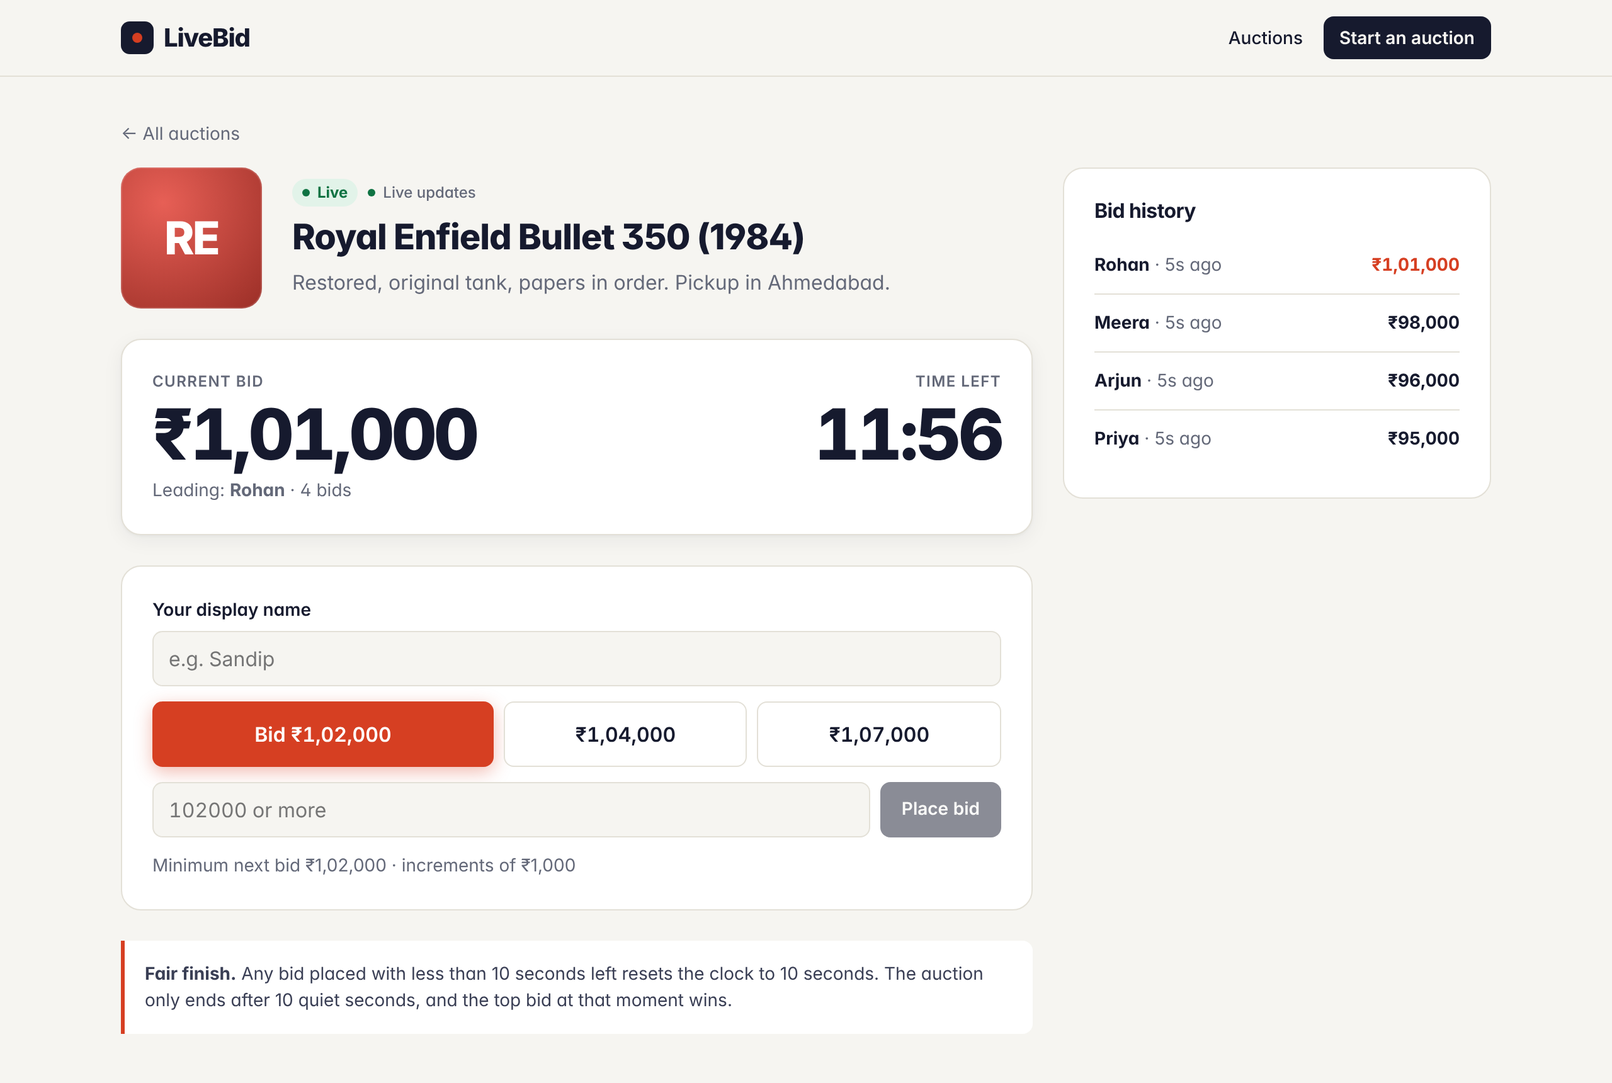
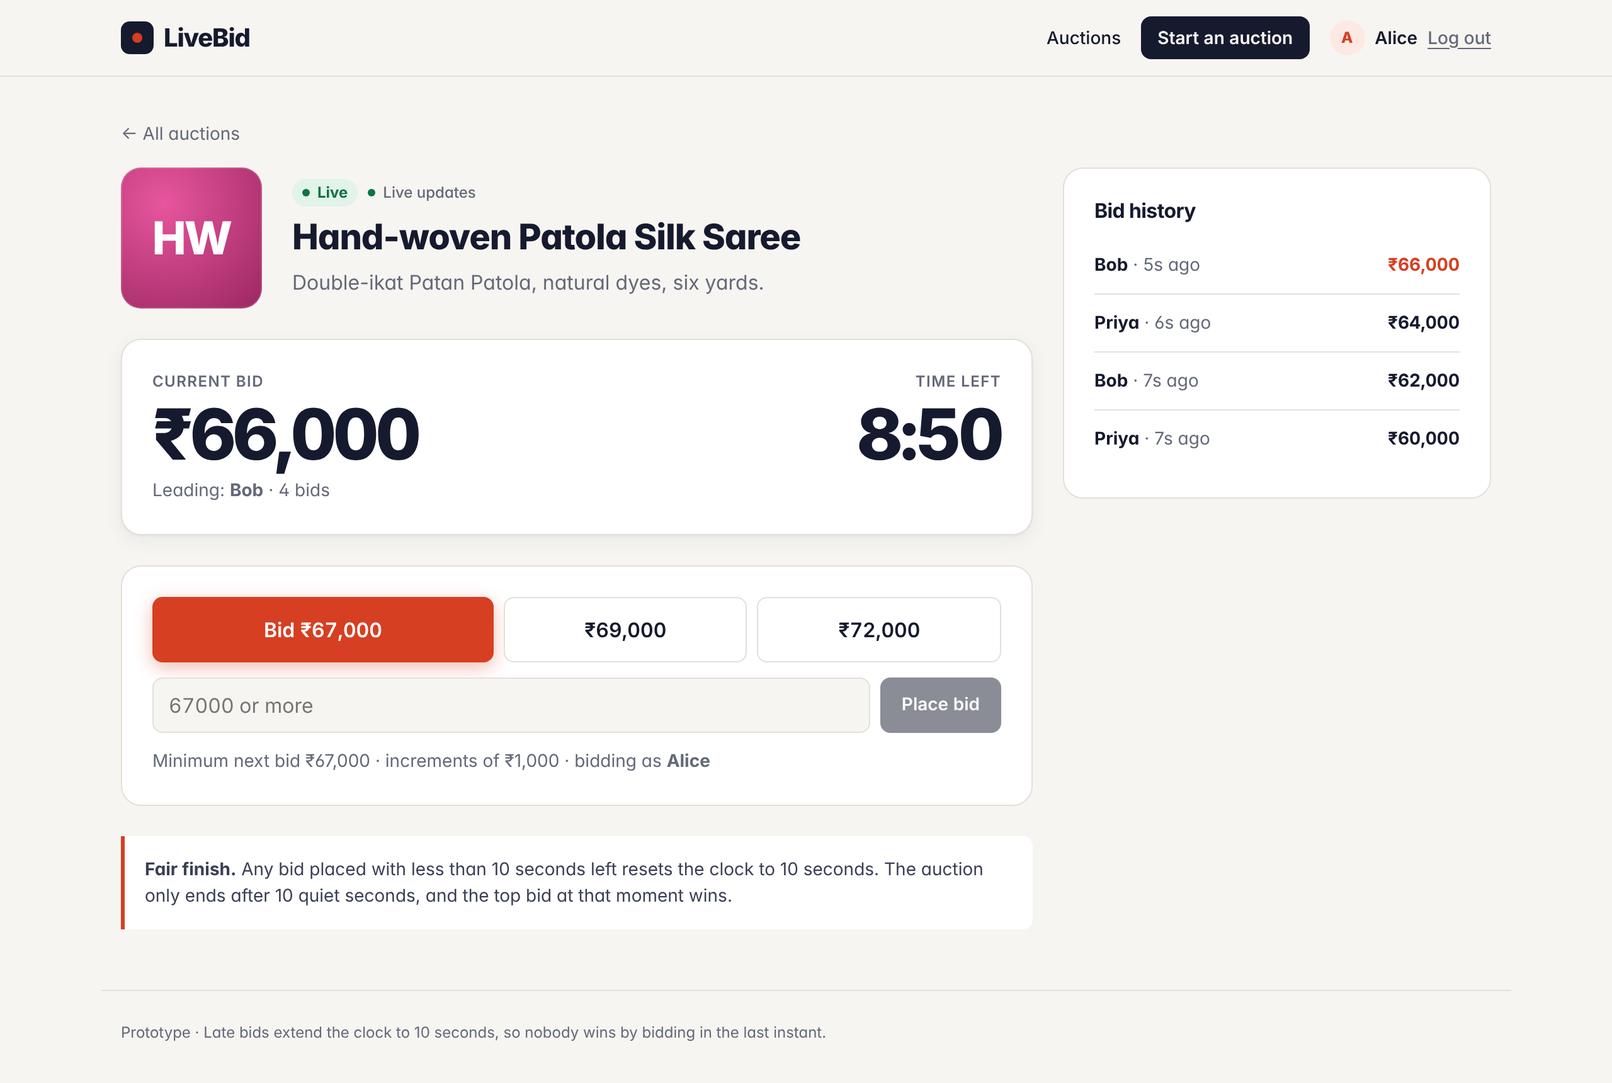
docs: v0.2 — Redis pub/sub and auth in architecture, decisions, tasks
ADRs D12 (demo auth) and D13 (Redis TCP + pub/sub); updated
diagrams, API table, folder layout, definition of done, roadmap,
README and screenshots.

Claude-Session: https://claude.ai/code/session_015RdGG7K9jKELf48CPAi1DH

diff --git a/docs/ARCHITECTURE.md b/docs/ARCHITECTURE.md
@@ -6,7 +6,8 @@
 |---|---|---|
 | Framework | **Next.js 15** (App Router) + **React 19** + **TypeScript** (strict) | One codebase for UI and API; first‑class on Vercel |
 | Live updates | **Server‑Sent Events** (`EventSource`) | One‑way server→browser push over plain HTTP; auto‑reconnect built in; works on serverless |
-| State (production) | **Upstash Redis** (REST) | Serverless‑friendly, atomic Lua scripts, a single authoritative clock (`TIME`) |
+| State (production) | **Redis** (Redis Cloud via Vercel Marketplace) with **ioredis** | Atomic Lua scripts, a single authoritative clock (`TIME`), pub/sub to push bids across instances |
+| Auth | Username/password, **scrypt** hashes, **HMAC‑signed httpOnly cookie** | Stateless sessions; no extra service ([D12](DECISIONS.md)) |
 | State (local) | In‑memory store | Zero setup: `npm run dev` just works |
 | Styling | Plain CSS with design tokens | No build plugins; every value documented in [CONTEXT.md](CONTEXT.md) |
 | Tests | **Vitest** | Fast, TypeScript‑native |
@@ -27,17 +28,17 @@ flowchart LR
     ENG["engine.ts<br/>pure rules"]
     SSE["GET /stream<br/>SSE"]
   end
-  R[("Upstash Redis<br/>auction + version<br/>last 50 bids · seen bid ids<br/>TIME = the one clock")]
+  R[("Redis<br/>auction + version · last 50 bids<br/>seen bid ids · users<br/>TIME = the one clock")]
 
-  UI -- "① place bid" --> API
+  UI -- "① place bid (session cookie)" --> API
   API -- "② decide" --> ENG
-  API -- "③ atomic compare-and-set" --> R
-  SSE -- "④ version changed?" --> R
+  API -- "③ atomic compare-and-set + PUBLISH" --> R
+  R -- "④ pub/sub: new version" --> SSE
   SSE -- "⑤ push snapshot" --> ES
   ES --> UI
 ```
 
-Without Redis credentials the same code uses the in‑memory store and pushes updates instantly through an in‑process event emitter.
+Without `REDIS_URL` the same code uses the in‑memory store and pushes updates through an in‑process event emitter.
 
 ## Placing a bid
 
@@ -49,7 +50,11 @@ sequenceDiagram
   participant E as engine.decideBid
   participant R as Redis
 
-  U->>F: POST /api/auctions/:id/bids {bidId, amount}
+  U->>F: POST /api/auctions/:id/bids {bidId, amount} + session cookie
+  F->>F: verify cookie signature → bidder = session user
+  alt no valid session
+    F-->>U: 401 Log in to bid
+  end
   loop until committed or rejected (max 12)
     F->>R: GET auction, TIME
     F->>E: decideBid(auction, bid, now)
@@ -59,7 +64,7 @@ sequenceDiagram
     else accepted
       E-->>F: next auction state (version+1, maybe endsAt = now+10s)
       F->>R: EVAL commit(expectedVersion, next, bid)
-      Note over R: atomic: version unchanged?<br/>TIME < endsAt?<br/>bidId unseen?
+      Note over R: atomic: version unchanged?<br/>TIME < endsAt?<br/>bidId unseen?<br/>then PUBLISH new version
       alt OK
         R-->>F: OK
         F-->>U: 200 {auction, bid}
@@ -110,7 +115,9 @@ The countdown runs on **server time** (`Date.now() + offset`), so every device s
 ├── app/                         Next.js App Router
 │   ├── page.tsx                 Lobby (open / ended auctions)
 │   ├── auctions/[id]/page.tsx   Auction room (server-rendered first snapshot)
-│   ├── new/page.tsx             Create an auction
+│   ├── new/page.tsx             Create an auction (login required)
+│   ├── login/page.tsx           Log in · sign up · demo accounts
+│   ├── api/auth/                login · signup · logout
 │   ├── api/auctions/
 │   │   ├── route.ts             GET list · POST create
 │   │   └── [id]/
@@ -119,30 +126,36 @@ The countdown runs on **server time** (`Date.now() + offset`), so every device s
 │   │       └── stream/route.ts  GET live stream (SSE)
 │   ├── layout.tsx · globals.css Shell + design tokens
 │   └── not-found.tsx
-├── components/                  Lobby, AuctionRoom (bid panel, result), Tile, StatusPill
+├── components/                  Lobby, AuctionRoom, LoginForm, UserMenu, NewAuctionForm, Tile, StatusPill
 ├── lib/
 │   ├── engine.ts                ★ The rules. Pure functions, no I/O, fully tested
+│   ├── auth.ts                  Password hashing, signed sessions, accounts
 │   ├── types.ts                 Auction, Bid, results
 │   ├── store/
 │   │   ├── types.ts             AuctionStore interface
 │   │   ├── memory.ts            Local / fallback store
-│   │   ├── redis.ts             Production store (Lua compare-and-set)
+│   │   ├── redis.ts             Production store (Lua compare-and-set + pub/sub)
 │   │   └── index.ts             Picks Redis if configured
 │   ├── demo.ts                  Keeps demo inventory topped up
-│   ├── client.ts                Browser: identity, server clock
+│   ├── client.ts                Browser: server clock
 │   └── format.ts                ₹ and countdown formatting
-├── tests/                       Vitest: engine rules, concurrency, idempotency
+├── tests/                       Vitest: rules, concurrency, idempotency, Redis store, auth
 └── docs/                        Aim · Tasks · Context · Architecture · Decisions
 ```
 
 ## API
 
+🔒 = requires the session cookie.
+
 | Method | Path | Body | Returns |
 |---|---|---|---|
+| `POST` | `/api/auth/signup` | `{ username, password, displayName? }` | `201 { user }` + cookie |
+| `POST` | `/api/auth/login` | `{ username, password }` | `{ user }` + cookie · `401` |
+| `POST` | `/api/auth/logout` | — | clears cookie |
 | `GET` | `/api/auctions` | — | `{ auctions, serverNow, store }` |
-| `POST` | `/api/auctions` | `{ title, description?, startingPrice, minIncrement, durationMinutes }` | `201 { auction }` |
+| `POST` 🔒 | `/api/auctions` | `{ title, description?, startingPrice, minIncrement, durationMinutes }` | `201 { auction }` · `401` |
 | `GET` | `/api/auctions/:id` | — | `{ auction, bids, serverNow }` |
-| `POST` | `/api/auctions/:id/bids` | `{ bidId, bidderId, bidderName, amount }` | `200 { ok, auction, bid }` · `409 { reason, minNextBid }` |
+| `POST` 🔒 | `/api/auctions/:id/bids` | `{ bidId, amount }` | `200 { ok, auction, bid }` · `409 { reason, minNextBid }` · `401` |
 | `GET` | `/api/auctions/:id/stream` | — | `text/event-stream`: `snapshot`, `ping` |
 
 ## Scaling path
@@ -169,7 +182,7 @@ flowchart LR
   G1 & G2 & Gn -- "coalesced snapshot<br/>≤ 10 / s" --> Watchers
 ```
 
-1. **Push instead of poll.** Replace per‑watcher Redis polling with one pub/sub message per accepted bid, fanned out by WebSocket gateways. Cost becomes O(bids), not O(watchers × time).
+1. **Dedicated fan‑out.** Bids are already pushed by pub/sub (one message per accepted bid). Move the watcher connections off serverless functions onto WebSocket gateways that each hold ~50k sockets.
 2. **Coalesce.** During the final‑seconds storm, gateways send at most ~10 snapshots/s per auction; each carries the latest version, so nothing is lost.
 3. **Single writer per auction.** Route all bids for an auction to one owner (consistent hashing). Bids become a local, in‑order operation — no compare‑and‑set retries under contention.
 4. **Durable ledger.** Every accepted bid appended to Postgres for audit and dispute resolution.

diff --git a/README.md b/README.md
@@ -9,8 +9,8 @@
 ![Next.js](https://img.shields.io/badge/Next.js-15-000?logo=nextdotjs)
 ![React](https://img.shields.io/badge/React-19-149eca?logo=react)
 ![TypeScript](https://img.shields.io/badge/TypeScript-strict-3178c6?logo=typescript&logoColor=white)
-![Redis](https://img.shields.io/badge/Upstash-Redis-00e9a3?logo=redis&logoColor=white)
-![Tests](https://img.shields.io/badge/tests-14%20passing-14804a)
+![Redis](https://img.shields.io/badge/Redis-pub%2Fsub-dc382d?logo=redis&logoColor=white)
+![Tests](https://img.shields.io/badge/tests-27%20passing-0f7343)
 ![Deploy](https://img.shields.io/badge/deployed%20on-Vercel-000?logo=vercel)
 
 </div>
@@ -20,7 +20,9 @@
 </p>
 
 <p align="center">
-  <img src="docs/screenshots/lobby.png" alt="Lobby with live prices and countdowns" width="560">
+  <img src="docs/screenshots/lobby.png" alt="Lobby with live prices and countdowns" width="400">
+  &nbsp;
+  <img src="docs/screenshots/login.png" alt="Login with one-tap demo accounts" width="300">
   &nbsp;
   <img src="docs/screenshots/mobile.png" alt="Auction room on a phone" width="200">
 </p>
@@ -35,11 +37,12 @@
 
 | Requirement | Answer | Where |
 |---|---|---|
-| See the price almost immediately | Server‑Sent Events push a new snapshot the moment a bid is accepted | [`stream/route.ts`](app/api/auctions/[id]/stream/route.ts) |
+| See the price almost immediately | A bid commit PUBLISHes to Redis; every server instance pushes the new snapshot to its watchers over Server‑Sent Events (~70 ms across instances) | [`stream/route.ts`](app/api/auctions/[id]/stream/route.ts) |
 | No doubt about who won | Atomic compare‑and‑set on a version number; **one clock** (Redis `TIME`) decides the close; "closed" is derived from time, never a flag | [`engine.ts`](lib/engine.ts) · [`redis.ts`](lib/store/redis.ts) |
 | Late bids extend the auction | Any bid with < 10 s left resets the clock to 10 s | [`decideBid`](lib/engine.ts) |
 | Bids in the final seconds | Idempotent `bidId` so a panicked double‑tap or retry never counts twice | [D7](docs/DECISIONS.md) |
 | Same countdown on every device | Clients run on server time (offset from `serverNow`) | [`client.ts`](lib/client.ts) |
+| Know who bid | Log in to bid; the bidder is taken from a signed session cookie, never from the request | [`auth.ts`](lib/auth.ts) |
 
 ## How a bid flows
 
@@ -51,13 +54,14 @@ sequenceDiagram
   participant R as Redis (one clock)
   participant W as Every watcher
 
-  A->>S: Bid ₹1,300 (bidId=x)
+  A->>S: Bid ₹1,300 (bidId=x) + session cookie
+  S->>S: verify session → bidder = Alice
   S->>R: read auction v7 + TIME
   S->>S: engine.decideBid → ok, v8<br/>(<10 s left → endsAt = now+10 s)
   S->>R: commit if still v7 AND TIME < endsAt
   R-->>S: OK
   S-->>A: You lead at ₹1,300
-  R-->>W: v8 → SSE snapshot (price flashes, "+10s")
+  R-->>W: PUBLISH v8 → SSE snapshot on every instance<br/>(price flashes, "+10s")
 ```
 
 Two bids racing for the same step? Only one commit sees `v7`; the other re‑reads `v8` and is told the new minimum. A bid that reaches Redis even 1 ms after `endsAt` is rejected — so the leader at close is the winner, by construction.
@@ -74,12 +78,14 @@ flowchart LR
   W -- yes --> C["Closed · top bid wins"]
 ```
 
-## Features (v0.1)
+## Features (v0.2)
+
+**Try it:** open the live demo, tap **Log in → Alice**. Open a second browser (or incognito), log in as **Bob**, open the same auction, and bid against yourself.
 
 - **Lobby** — every open auction with live price and a server‑synced countdown; *Open now* / *Ended* tabs.
 - **Auction room** — huge price and clock, one‑tap bid buttons (minimum, +2×, +5× increment) or a custom amount, live bid history, "You've been outbid" alert, extension notice, winner banner.
 - **Start an auction** — title, description, starting price, increment, duration; live the moment it's created.
-- **No sign‑up** — pick a display name and bid (auth comes later, see [Tasks](docs/TASKS.md)).
+- **Accounts** — sign up with a username and password, or one tap on a demo account (Alice, Bob, Priya · `demo1234`). Anyone can watch; logging in is required to bid or start an auction.
 - Mobile‑first, dark mode, reduced‑motion aware.
 
 ## Run locally
@@ -89,14 +95,19 @@ git clone https://github.com/Sandipxg/Live-Auction-platform.git
 cd Live-Auction-platform
 npm install
 npm run dev          # http://localhost:3000 — uses the in-memory store, no setup
-npm test             # 14 tests: rules, concurrency, idempotency
+npm test             # rules, concurrency, idempotency, auth (Redis suite skipped)
 ```
 
 Open the same auction in two browser windows and bid against yourself.
 
 ### Use Redis (required for multi‑instance hosting)
 
-Copy `.env.example` to `.env.local` and fill in an [Upstash](https://upstash.com) REST URL and token. On Vercel, add **Upstash for Redis** from the Marketplace — it sets the variables for you (`KV_REST_API_URL` / `KV_REST_API_TOKEN` are also recognised).
+Copy `.env.example` to `.env.local` and set `REDIS_URL` (any Redis 6.2+, e.g. `redis://localhost:6379` or a `rediss://` cloud URL) and `AUTH_SECRET`. On Vercel, add **Redis** from the Storage tab — it sets `REDIS_URL` for you.
+
+```bash
+redis-server --port 6390 &
+REDIS_TEST_URL=redis://localhost:6390 npm test   # all 27 tests, incl. the Redis store
+```
 
 ## Documentation
 
@@ -112,16 +123,17 @@ Copy `.env.example` to `.env.local` and fill in an [Upstash](https://upstash.com
 
 ```
 app/          pages + API routes (Next.js App Router)
-components/   Lobby, AuctionRoom, Tile, StatusPill
+components/   Lobby, AuctionRoom, LoginForm, UserMenu, …
 lib/engine.ts the auction rules — pure, tested
 lib/store/    memory + Redis stores behind one interface
+lib/auth.ts   passwords, signed sessions, accounts
 tests/        Vitest
 docs/         Aim · Tasks · Context · Architecture · Decisions
 ```
 
 ## Roadmap
 
-Milestone 2 — watcher counts, outbid sound, simulated bidders, images · Milestone 3 — auth, reserve price, proxy bidding · Milestone 4 — WebSocket fan‑out and load testing at 300k watchers. Details in [docs/TASKS.md](docs/TASKS.md).
+Milestone 3 — watcher counts, outbid sound, simulated bidders, images · Milestone 4 — production auth, reserve price, proxy bidding · Milestone 5 — WebSocket fan‑out and load testing at 300k watchers. Details in [docs/TASKS.md](docs/TASKS.md).
 
 ---
 

diff --git a/docs/DECISIONS.md b/docs/DECISIONS.md
@@ -37,19 +37,19 @@ Architecture decision records, newest last. Each states the context, the decisio
 ## D6 — Server‑Sent Events for live updates
 
 **Context.** Watchers only *receive* updates; bids go over normal HTTP POST. Vercel functions do not host WebSocket servers.
-**Decision.** SSE (`text/event-stream`). Each stream lives 50 s, then the browser's `EventSource` reconnects automatically (`retry: 1000`). With Redis, the function checks the auction version every 300 ms and pushes only on change.
-**Trade‑off.** Polling Redis per watcher does not scale to 300k watchers. Documented upgrade: WebSocket gateways + pub/sub ([ARCHITECTURE.md → Scaling path](ARCHITECTURE.md#scaling-path)).
+**Decision.** SSE (`text/event-stream`). Each stream lives 50 s, then the browser's `EventSource` reconnects automatically (`retry: 1000`). Updates are **pushed** via Redis pub/sub (see D13); a 2 s version check is only a safety net.
+**Trade‑off.** One SSE connection per watcher on serverless functions is fine for a prototype, not for 300k watchers. Documented upgrade: dedicated WebSocket gateways ([ARCHITECTURE.md → Scaling path](ARCHITECTURE.md#scaling-path)).
 
 ## D7 — Idempotent bids
 
 **Context.** Networks fail most when it matters: the final seconds on a phone. Users tap again.
 **Decision.** The browser generates a `bidId` and reuses it on retry. The server records seen ids per auction and returns the original result for a duplicate.
 
-## D8 — No authentication in v0.1
+## D8 — No authentication in v0.1 *(superseded by D12 in v0.2)*
 
 **Context.** The first goal is a correct, easy‑to‑use core.
-**Decision.** A visitor picks a display name; a random id is stored in `localStorage`. The server trusts it.
-**Trade‑off.** Anyone can impersonate a name. Fine for a prototype; Milestone 3 adds auth.
+**Decision.** A visitor picked a display name; a random id was stored in `localStorage` and trusted by the server.
+**Trade‑off.** Anyone could impersonate a name — replaced by real accounts in D12.
 
 ## D9 — In‑memory fallback store
 
@@ -64,3 +64,21 @@ Architecture decision records, newest last. Each states the context, the decisio
 ## D11 — Plain CSS with tokens (no Tailwind)
 
 **Decision.** One stylesheet; every colour, size, space and duration is a CSS custom property documented in [CONTEXT.md](CONTEXT.md). Fewer dependencies, dark mode for free by redefining tokens.
+
+## D12 — Demo authentication: accounts + signed session cookie (v0.2)
+
+**Context.** Users must log in before they bid or start an auction. Watching stays open to everyone — the brief is about hundreds of thousands of *watchers*.
+**Decision.**
+- Username + password accounts stored in Redis (`user:{username}`, created with `SET NX` so names are unique atomically).
+- Passwords hashed with **scrypt** and a per‑user random salt; never stored or logged in plain text.
+- Session = HMAC‑SHA256‑signed cookie (`lb_session`): `httpOnly`, `SameSite=Lax`, `Secure` in production, 7‑day expiry. Stateless — no session table. Secret from `AUTH_SECRET`.
+- **The server takes the bidder's identity from the cookie only.** Any `bidderId`/`bidderName` in a request body is ignored (tested: a forged body is still recorded as the real user).
+- Three shared demo accounts (Alice, Bob, Priya — password `demo1234`) for one‑tap testing; created on first use.
+- `?next=` redirects accept only same‑site relative paths.
+**Trade‑off.** "Demo‑grade": no email verification, password reset, rate limiting on login, or session revocation (logout clears the cookie, but a copied token stays valid until it expires). All listed in Tasks for a production version.
+
+## D13 — Redis over TCP (ioredis) with pub/sub push, replacing Upstash REST polling (v0.2)
+
+**Context.** The project's Redis is a Redis Cloud database attached through the Vercel Marketplace (`REDIS_URL`, TLS). It speaks the normal Redis protocol, which also unlocks pub/sub.
+**Decision.** `ioredis` with one connection per server instance. The bid‑commit Lua script now ends with `PUBLISH auc:{id}:events <version>`. Each instance holds **one** subscriber connection shared by all its watchers, so a bid accepted on instance A reaches watchers on instance B in tens of milliseconds (measured 69–77 ms locally across two instances).
+**Trade‑off.** Long‑lived TCP connections from serverless functions; fine at prototype scale. The REST client was removed — the in‑memory store remains for zero‑setup local dev.

diff --git a/docs/TASKS.md b/docs/TASKS.md
@@ -2,7 +2,7 @@
 
 Legend: ✅ done · 🟡 in progress · ⬜ planned
 
-_Last updated: 2026-11-21_
+_Last updated: 2026-11-21 (v0.2)_
 
 ## Milestone 1 — Simple, correct core (v0.1) ✅
 
@@ -14,7 +14,7 @@ _Last updated: 2026-11-21_
 | ✅ | Redis store with atomic compare‑and‑set (Lua) | One clock (Redis `TIME`) decides the close |
 | ✅ | Idempotent bids (`bidId`) | Safe retries in the final seconds |
 | ✅ | REST API: list, create, snapshot, bid | |
-| ✅ | Live updates over Server‑Sent Events | Push (memory) / 300 ms version poll (Redis) |
+| ✅ | Live updates over Server‑Sent Events | Push (memory); Redis pub/sub since v0.2 |
 | ✅ | Server‑synced countdown | Clients apply server clock offset |
 | ✅ | Lobby with live prices and countdowns | Open / Ended tabs |
 | ✅ | Auction room: price, clock, bid panel, history, winner banner | Outbid alert, extension notice |
@@ -24,27 +24,40 @@ _Last updated: 2026-11-21_
 | ✅ | Docs: Aim, Tasks, Context, Architecture, Decisions; README with diagrams | |
 | ✅ | Deploy to Vercel | https://live-auction-platform-alpha.vercel.app |
 
-## Milestone 2 — Feels alive ⬜
+## Milestone 2 — Real shared state + accounts (v0.2) ✅
+
+| Status | Task | Notes |
+|---|---|---|
+| ✅ | Connect Redis on Vercel (Redis Cloud via Marketplace, `REDIS_URL`) | Shared state across all instances |
+| ✅ | Switch to ioredis (TCP/TLS) | Replaces Upstash REST client |
+| ✅ | Push bids with Redis pub/sub | 69–77 ms across two instances (local test) |
+| ✅ | Demo auth: sign up, log in, log out | scrypt + signed httpOnly cookie |
+| ✅ | Login required to bid and to start an auction; watching stays public | |
+| ✅ | Bidder identity taken from session only | Forged body ignored (E2E) |
+| ✅ | One‑tap demo accounts (Alice, Bob, Priya) | |
+| ✅ | Tests: 27 (engine, memory store, Redis store, auth) | Redis suite runs with `REDIS_TEST_URL` |
+
+## Milestone 3 — Feels alive ⬜
 
 | Status | Task |
 |---|---|
-| 🟡 | Connect Upstash Redis on Vercel (shared state across all instances) — live demo currently on the in-memory fallback |
 | ⬜ | Watcher count ("1,204 watching") |
 | ⬜ | Sound + vibration on outbid (opt‑in) |
 | ⬜ | Simulated bidders for demo auctions |
 | ⬜ | Item images (upload) |
 
-## Milestone 3 — Real users ⬜
+## Milestone 4 — Real users ⬜
 
 | Status | Task |
 |---|---|
-| ⬜ | Authentication (sign in to bid; display names unique) |
+| ⬜ | Production auth: email verification, password reset, login rate limiting, session revocation |
+| ⬜ | Sellers cannot bid on their own auctions; show "Listed by" |
 | ⬜ | "My bids" and "Watching" pages |
 | ⬜ | Reserve price |
 | ⬜ | Proxy bidding (set a max, the system bids for you) |
 | ⬜ | Rate limiting per bidder |
 
-## Milestone 4 — Scale ⬜
+## Milestone 5 — Scale ⬜
 
 | Status | Task |
 |---|---|

diff --git a/docs/AIM.md b/docs/AIM.md
@@ -33,9 +33,17 @@ The product is done when every statement below is true and demonstrably tested.
 | L2 | Countdown agrees across devices | Within network RTT (server clock offset applied) | Same |
 | L3 | Watchers never see the price go backwards | Versioned snapshots; older versions dropped | Same |
 
+### Identity (v0.2)
+
+| # | Requirement | Proof |
+|---|---|---|
+| A1 | Anyone can watch; only logged‑in users can bid or start an auction. | API returns `401` without a session; UI shows "Log in to bid" |
+| A2 | A bid is always recorded under the logged‑in user — the browser cannot claim to be someone else. | E2E test: forged `bidderName` in body is ignored |
+| A3 | Passwords are never stored in plain text; sessions cannot be forged. | `tests/auth.test.ts` — scrypt, tampered/expired tokens rejected |
+
 ### Usability
 
-- A first-time visitor can place a bid in **under 10 seconds**: pick a name, tap one button.
+- A first-time visitor can place a bid in **under 10 seconds**: tap a demo account, tap one button.
 - Works on a 360 px phone and on desktop; respects reduced‑motion and dark mode.
 - Every rejection tells the user what to do next ("Next bid: ₹1,300").
 
@@ -46,4 +54,4 @@ The product is done when every statement below is true and demonstrably tested.
 
 ## Out of scope for now
 
-Accounts and authentication, payments, reserve prices, proxy (automatic) bidding, images uploads, moderation. Tracked in [TASKS.md](TASKS.md).
+Payments, password reset / email verification, reserve prices, proxy (automatic) bidding, images uploads, moderation. Tracked in [TASKS.md](TASKS.md).
